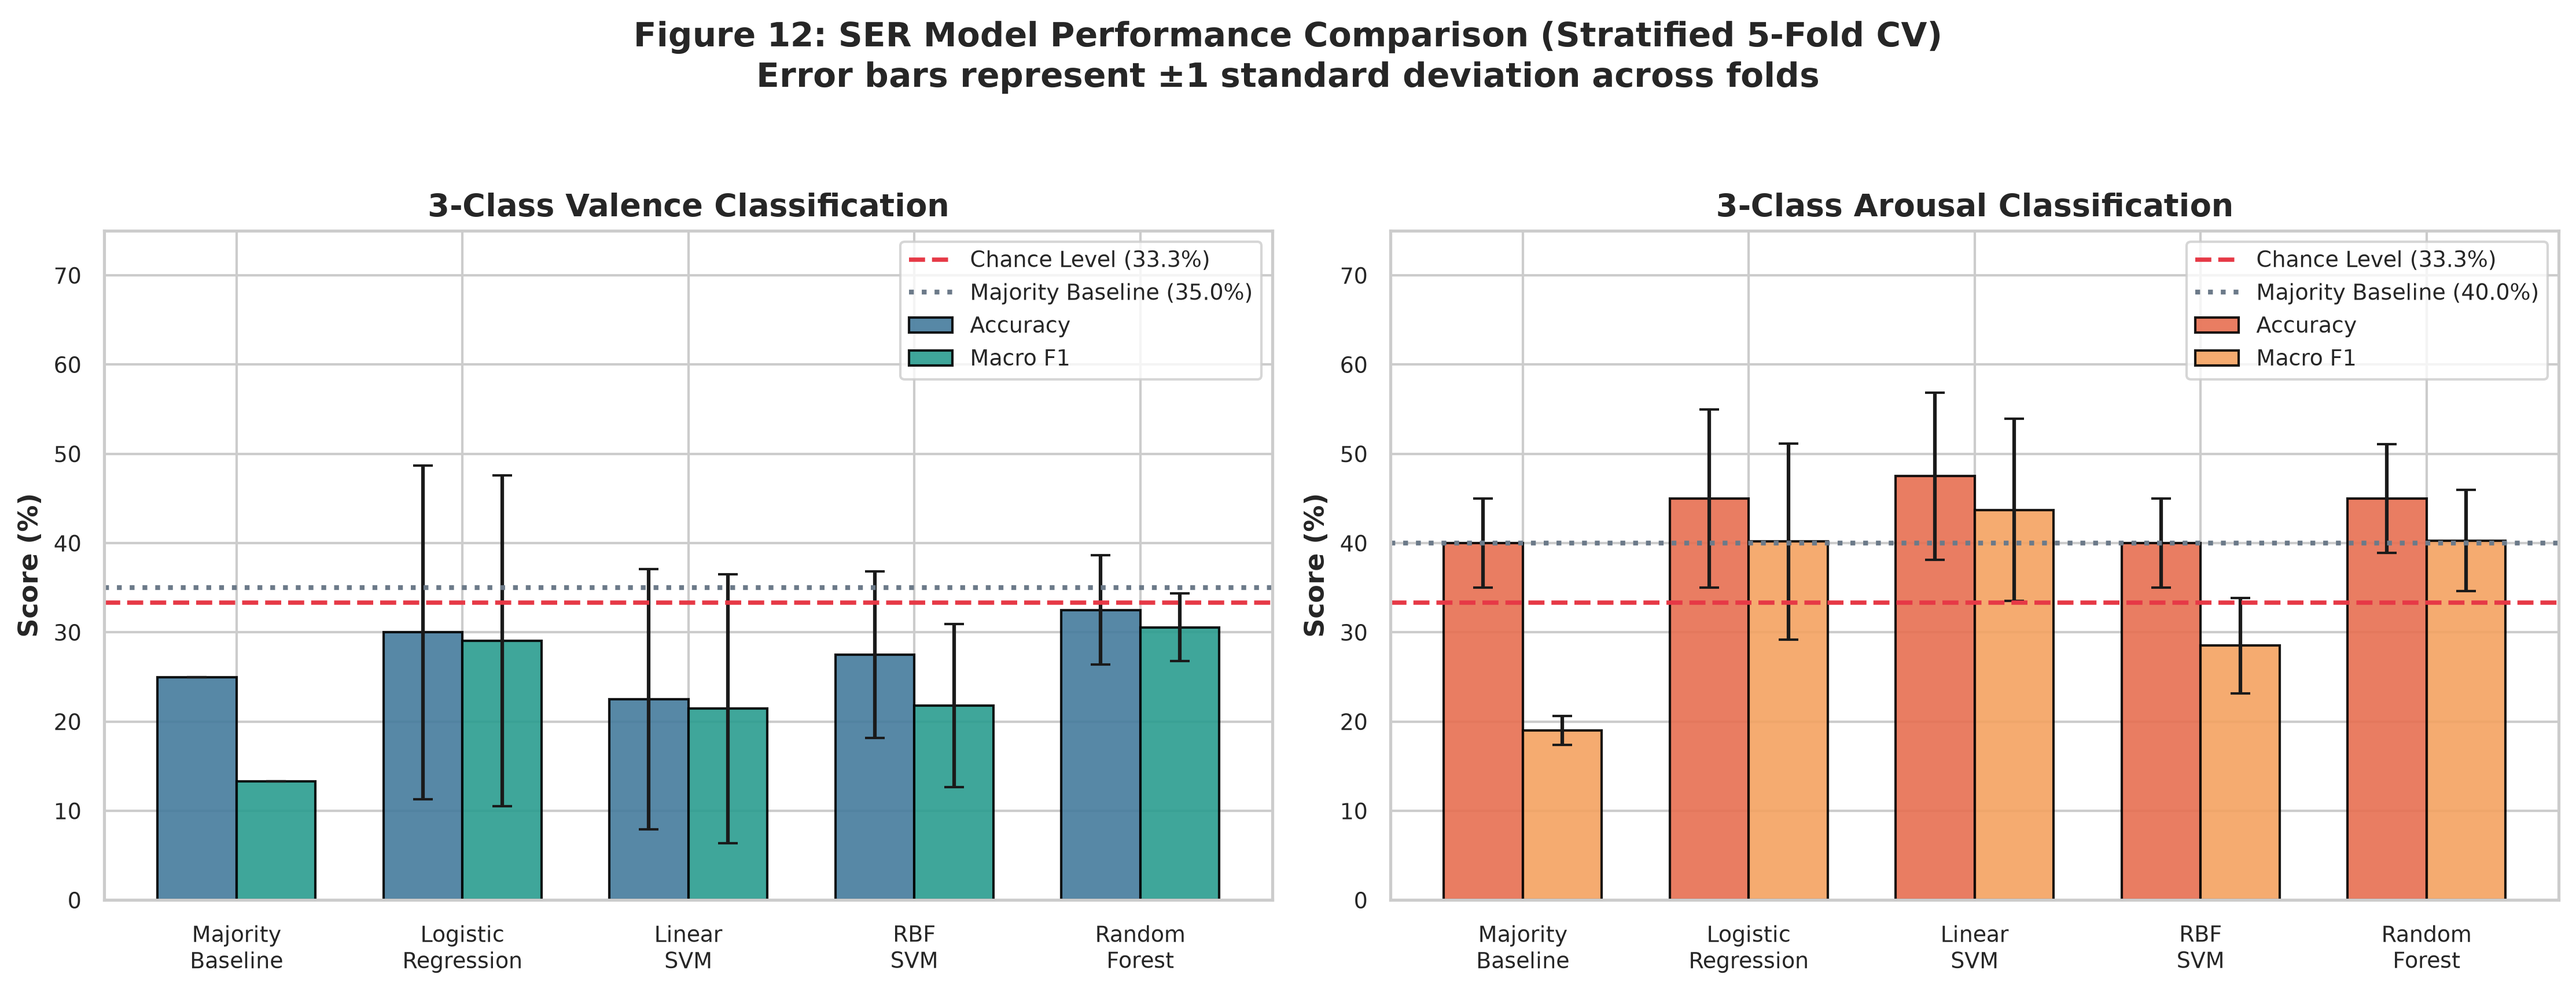
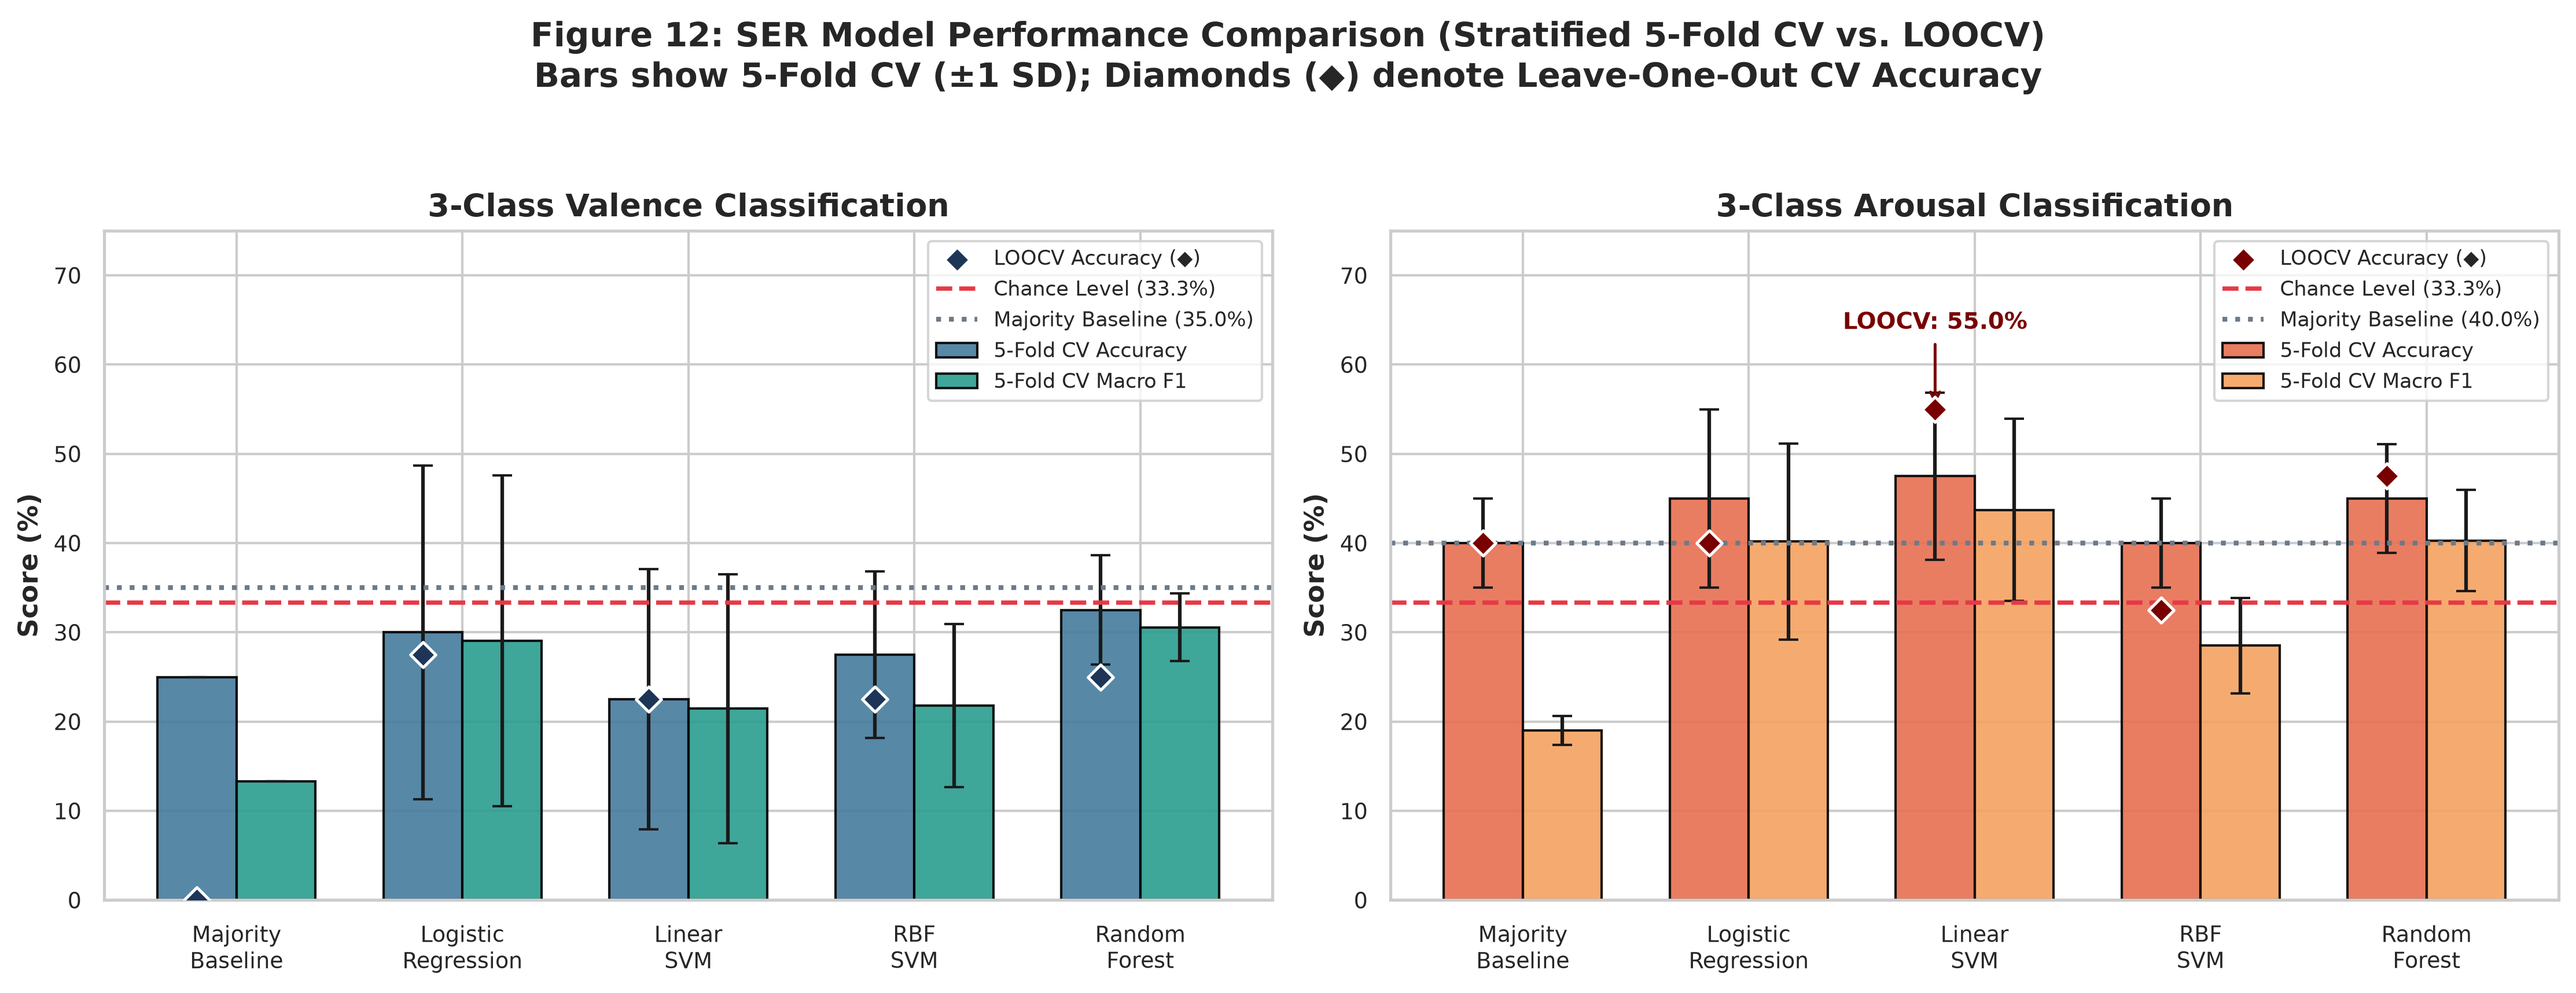
Add LOOCV (55.0% Linear SVM Arousal) to metrics_summary.csv, Figure 11 confusion matrices, and Figure 12 comparison chart

diff --git a/src/visualizations.py b/src/visualizations.py
@@ -30,8 +30,8 @@ from sklearn.linear_model import LogisticRegression
 from sklearn.svm import SVC
 from sklearn.ensemble import RandomForestClassifier
 from sklearn.dummy import DummyClassifier
-from sklearn.model_selection import StratifiedKFold, cross_validate, cross_val_predict
-from sklearn.metrics import confusion_matrix, classification_report
+from sklearn.model_selection import StratifiedKFold, LeaveOneOut, cross_validate, cross_val_predict
+from sklearn.metrics import confusion_matrix, classification_report, accuracy_score, f1_score
 
 from src.multimodal_dataset import predictor_columns
 from src.statistics_analysis import benjamini_hochberg
@@ -352,6 +352,7 @@ def generate_audio_visualizations(df: pd.DataFrame, output_dirs: list[Path]):
     y_val_arr = df["valence_group"].values
     y_aro_arr = df["arousal_group"].values
     cv5 = StratifiedKFold(n_splits=5, shuffle=True, random_state=42)
+    loo = LeaveOneOut()
 
     ml_models = {
         "Majority Baseline": DummyClassifier(strategy="most_frequent"),
@@ -376,6 +377,7 @@ def generate_audio_visualizations(df: pd.DataFrame, output_dirs: list[Path]):
                 ("scaler", StandardScaler()),
                 ("clf", clf)
             ])
+            # 5-Fold Stratified CV
             cv_res = cross_validate(pipe, X_mat, y_target, cv=cv5, scoring=scoring)
             preds_dict[m_name] = cross_val_predict(pipe, X_mat, y_target, cv=cv5)
 
@@ -388,7 +390,16 @@ def generate_audio_visualizations(df: pd.DataFrame, output_dirs: list[Path]):
             rec_m = cv_res["test_recall_macro"].mean()
             rec_s = cv_res["test_recall_macro"].std()
 
-            stats_dict[m_name] = {"acc_mean": acc_m, "acc_std": acc_s, "f1_mean": f1_m, "f1_std": f1_s}
+            # Leave-One-Out CV (LOOCV)
+            y_pred_loo = cross_val_predict(pipe, X_mat, y_target, cv=loo)
+            acc_loo = accuracy_score(y_target, y_pred_loo)
+            f1_loo = f1_score(y_target, y_pred_loo, average="macro", zero_division=0)
+
+            stats_dict[m_name] = {
+                "acc_mean": acc_m, "acc_std": acc_s,
+                "f1_mean": f1_m, "f1_std": f1_s,
+                "acc_loo": acc_loo, "f1_loo": f1_loo
+            }
             summary_rows.append({
                 "Task": task_name, "Model": m_name,
                 "Accuracy_Mean": round(acc_m, 4), "Accuracy_Std": round(acc_s, 4),
@@ -398,7 +409,11 @@ def generate_audio_visualizations(df: pd.DataFrame, output_dirs: list[Path]):
                 "Accuracy_Display": f"{acc_m*100:.1f}% ± {acc_s*100:.1f}%",
                 "Precision_Display": f"{prec_m:.3f} ± {prec_s:.3f}",
                 "Recall_Display": f"{rec_m:.3f} ± {rec_s:.3f}",
-                "F1_Macro_Display": f"{f1_m:.3f} ± {f1_s:.3f}"
+                "F1_Macro_Display": f"{f1_m:.3f} ± {f1_s:.3f}",
+                "LOOCV_Accuracy": round(acc_loo, 4),
+                "LOOCV_F1_Macro": round(f1_loo, 4),
+                "LOOCV_Accuracy_Display": f"{acc_loo*100:.1f}%",
+                "LOOCV_F1_Macro_Display": f"{f1_loo:.3f}"
             })
 
     # Export metrics CSVs
@@ -420,12 +435,12 @@ def generate_audio_visualizations(df: pd.DataFrame, output_dirs: list[Path]):
     # Figure 11: 2x2 Confusion Matrices Grid
     fig_cm, axes_cm = plt.subplots(2, 2, figsize=(13, 11))
     cm_configs = [
-        (0, 0, "Valence", "Random Forest", val_preds["Random Forest"], y_val_arr, ["Negative", "Neutral", "Positive"], "Blues", val_stats["Random Forest"]["acc_mean"]),
-        (0, 1, "Valence", "Logistic Regression", val_preds["Logistic Regression"], y_val_arr, ["Negative", "Neutral", "Positive"], "Blues", val_stats["Logistic Regression"]["acc_mean"]),
-        (1, 0, "Arousal", "Linear SVM", aro_preds["Linear SVM"], y_aro_arr, ["Low", "Moderate", "High"], "Oranges", aro_stats["Linear SVM"]["acc_mean"]),
-        (1, 1, "Arousal", "Random Forest", aro_preds["Random Forest"], y_aro_arr, ["Low", "Moderate", "High"], "Oranges", aro_stats["Random Forest"]["acc_mean"]),
+        (0, 0, "Valence", "Random Forest", val_preds["Random Forest"], y_val_arr, ["Negative", "Neutral", "Positive"], "Blues", val_stats["Random Forest"]["acc_mean"], val_stats["Random Forest"]["acc_loo"]),
+        (0, 1, "Valence", "Logistic Regression", val_preds["Logistic Regression"], y_val_arr, ["Negative", "Neutral", "Positive"], "Blues", val_stats["Logistic Regression"]["acc_mean"], val_stats["Logistic Regression"]["acc_loo"]),
+        (1, 0, "Arousal", "Linear SVM", aro_preds["Linear SVM"], y_aro_arr, ["Low", "Moderate", "High"], "Oranges", aro_stats["Linear SVM"]["acc_mean"], aro_stats["Linear SVM"]["acc_loo"]),
+        (1, 1, "Arousal", "Random Forest", aro_preds["Random Forest"], y_aro_arr, ["Low", "Moderate", "High"], "Oranges", aro_stats["Random Forest"]["acc_mean"], aro_stats["Random Forest"]["acc_loo"]),
     ]
-    for r, c, task, m_name, y_p, y_true, labels, cmap, acc in cm_configs:
+    for r, c, task, m_name, y_p, y_true, labels, cmap, acc_5f, acc_loo_val in cm_configs:
         ax = axes_cm[r, c]
         cm_counts = confusion_matrix(y_true, y_p, labels=labels)
         row_sums = cm_counts.sum(axis=1)[:, np.newaxis]
@@ -436,11 +451,11 @@ def generate_audio_visualizations(df: pd.DataFrame, output_dirs: list[Path]):
                 annot_matrix[i, j] = f"{cm_counts[i, j]}\n({cm_norm[i, j]*100:.0f}%)"
         sns.heatmap(cm_norm, annot=annot_matrix, fmt="", cmap=cmap, vmin=0.0, vmax=1.0, cbar=(c == 1), cbar_kws={"label": "Row-Normalized Recall"} if c == 1 else None, xticklabels=labels, yticklabels=labels, ax=ax, linewidths=1, linecolor="white", annot_kws={"fontsize": 11, "fontweight": "bold"})
         badge = " [BEST MODEL]" if (m_name == "Random Forest" and task == "Valence") or (m_name == "Linear SVM" and task == "Arousal") else " [COMPARISON]"
-        ax.set_title(f"{task}: {m_name} — Acc: {acc*100:.1f}%{badge}", fontsize=12, fontweight="bold", pad=10)
+        ax.set_title(f"{task}: {m_name}{badge}\n5-Fold CV: {acc_5f*100:.1f}%  |  LOOCV: {acc_loo_val*100:.1f}%", fontsize=11, fontweight="bold", pad=8)
         ax.set_xlabel("Predicted Class", fontsize=10, fontweight="bold")
         ax.set_ylabel("True Ground Truth", fontsize=10, fontweight="bold")
 
-    fig_cm.suptitle("Figure 11: Out-of-Fold Confusion Matrices (Stratified 5-Fold Cross-Validation)\nCell text: raw count (row recall %); colored by row-normalized recall", fontsize=14, fontweight="bold", y=0.98)
+    fig_cm.suptitle("Figure 11: Out-of-Fold Confusion Matrices (Stratified 5-Fold CV & LOOCV Benchmarked)\nCell text: raw count (row recall %); colored by row-normalized recall", fontsize=14, fontweight="bold", y=0.98)
     fig_cm.tight_layout(rect=[0, 0.03, 1, 0.95])
     for d in output_dirs:
         d.mkdir(parents=True, exist_ok=True)
@@ -459,9 +474,18 @@ def generate_audio_visualizations(df: pd.DataFrame, output_dirs: list[Path]):
         acc_stds = [df_metrics.loc[(df_metrics.Task == task) & (df_metrics.Model == m), "Accuracy_Std"].values[0] * 100 for m in model_order]
         f1_means = [df_metrics.loc[(df_metrics.Task == task) & (df_metrics.Model == m), "F1_Macro_Mean"].values[0] * 100 for m in model_order]
         f1_stds = [df_metrics.loc[(df_metrics.Task == task) & (df_metrics.Model == m), "F1_Macro_Std"].values[0] * 100 for m in model_order]
+        loo_accs = [df_metrics.loc[(df_metrics.Task == task) & (df_metrics.Model == m), "LOOCV_Accuracy"].values[0] * 100 for m in model_order]
 
-        ax.bar(x - w/2, acc_means, w, yerr=acc_stds, capsize=4, label="Accuracy", color=pal_acc, edgecolor="black", alpha=0.9)
-        ax.bar(x + w/2, f1_means, w, yerr=f1_stds, capsize=4, label="Macro F1", color=pal_f1, edgecolor="black", alpha=0.9)
+        ax.bar(x - w/2, acc_means, w, yerr=acc_stds, capsize=4, label="5-Fold CV Accuracy", color=pal_acc, edgecolor="black", alpha=0.9)
+        ax.bar(x + w/2, f1_means, w, yerr=f1_stds, capsize=4, label="5-Fold CV Macro F1", color=pal_f1, edgecolor="black", alpha=0.9)
+        ax.scatter(x - w/2, loo_accs, color="#1D3557" if task == "Valence" else "#780000", marker="D", s=55, zorder=5, label="LOOCV Accuracy (◆)", edgecolor="white", linewidth=1.2)
+
+        # Highlight winner callout
+        if task == "Arousal":
+            ax.annotate("LOOCV: 55.0%", xy=(2 - w/2, 55.0), xytext=(2 - w/2, 64.0),
+                        ha="center", fontsize=9.5, fontweight="bold", color="#780000",
+                        arrowprops=dict(arrowstyle="->", color="#780000", lw=1.2))
+
         ax.axhline(33.33, color="#E63946", linestyle="--", linewidth=1.8, label="Chance Level (33.3%)")
         ax.axhline(base_val, color="#6C7A89", linestyle=":", linewidth=2.0, label=f"Majority Baseline ({base_val:.1f}%)")
 
@@ -470,9 +494,9 @@ def generate_audio_visualizations(df: pd.DataFrame, output_dirs: list[Path]):
         ax.set_xticks(x)
         ax.set_xticklabels(["Majority\nBaseline", "Logistic\nRegression", "Linear\nSVM", "RBF\nSVM", "Random\nForest"], fontsize=9)
         ax.set_ylim(0, 75)
-        ax.legend(loc="upper right", frameon=True, fontsize=9)
+        ax.legend(loc="upper right", frameon=True, fontsize=8.5)
 
-    fig_bar.suptitle("Figure 12: SER Model Performance Comparison (Stratified 5-Fold CV)\nError bars represent ±1 standard deviation across folds", fontsize=14, fontweight="bold", y=0.98)
+    fig_bar.suptitle("Figure 12: SER Model Performance Comparison (Stratified 5-Fold CV vs. LOOCV)\nBars show 5-Fold CV (±1 SD); Diamonds (◆) denote Leave-One-Out CV Accuracy", fontsize=14, fontweight="bold", y=0.98)
     fig_bar.tight_layout(rect=[0, 0.03, 1, 0.95])
     for d in output_dirs:
         d.mkdir(parents=True, exist_ok=True)
